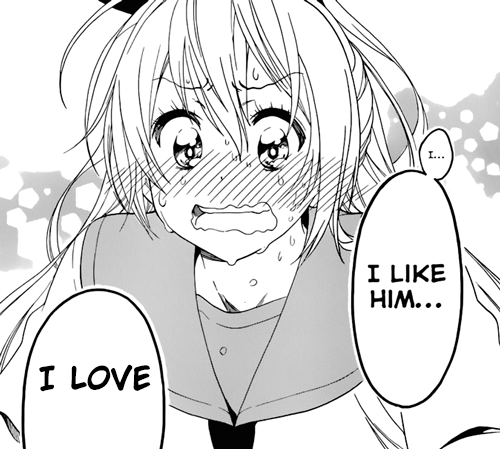
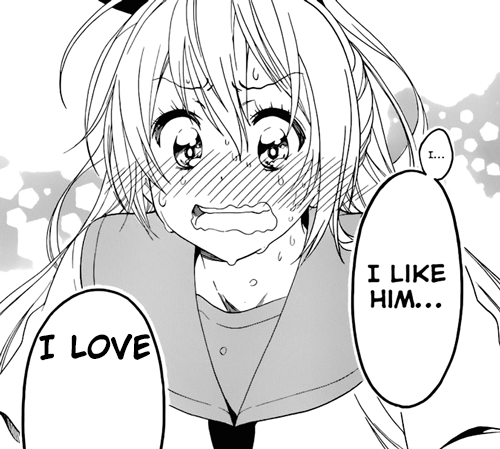
fixes

Changed region(s): [[0.06, 0.7483, 0.3, 0.8731]]

diff --git a/modules/response.js b/modules/response.js
@@ -62,7 +62,7 @@ module.exports = {
                     name = chunk(name, 6).join("\n");
                 }
                 
-                img.stringFT(txtColor, fontPath, fontsize, 0, 105 - position, 425, name);
+                img.stringFT(txtColor, fontPath, fontsize, 0, 105 - position, 365, name);
                 img.saveFile(appRoot + '/saved/love.png', function(err) {
                     if (err) {
                       console.log("Something went wrong saving file");
